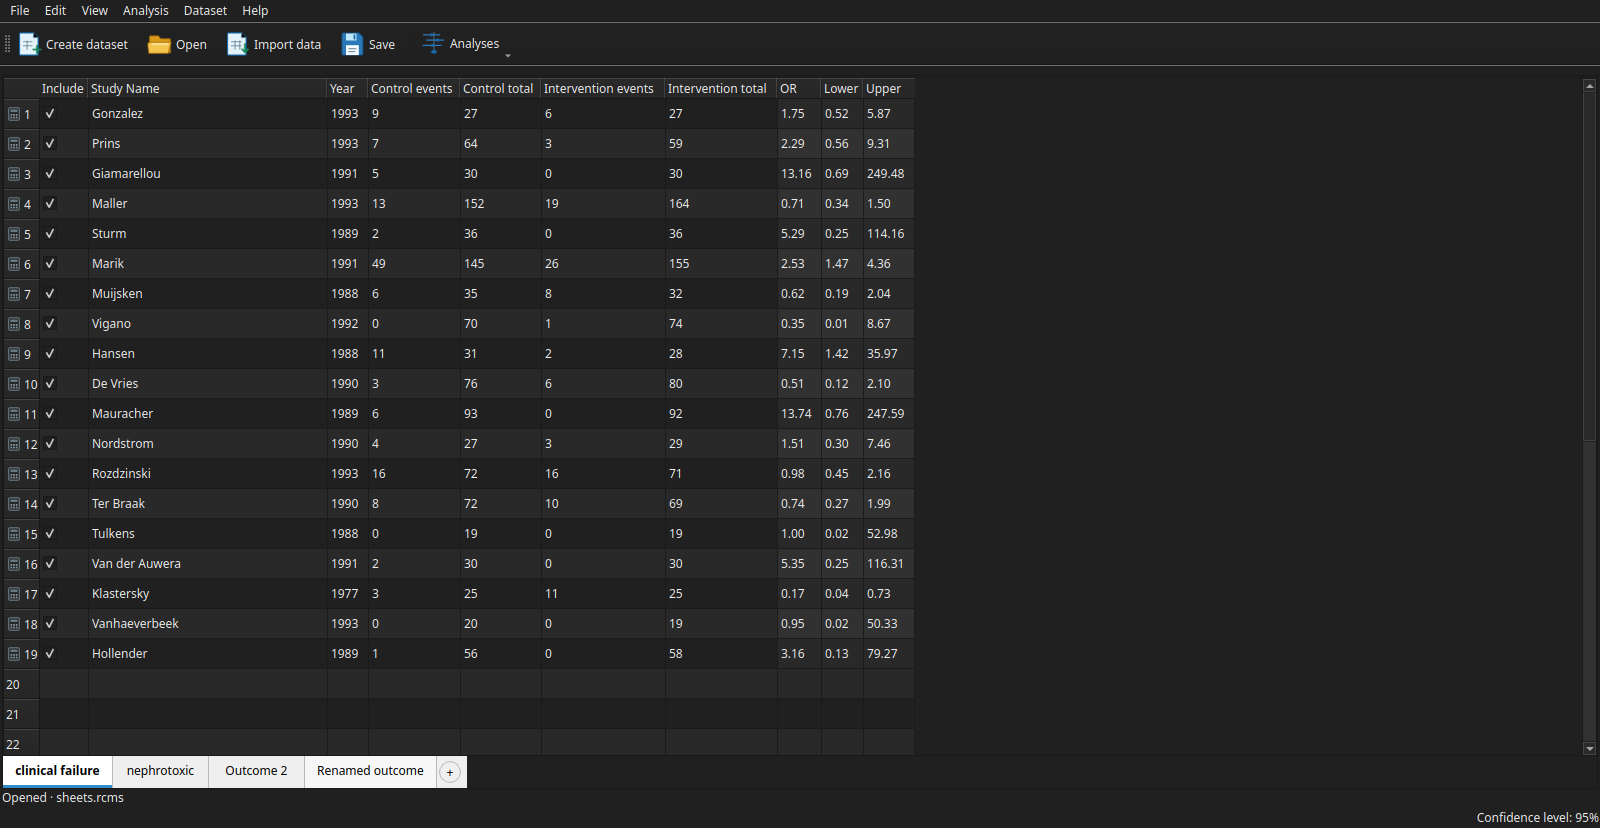
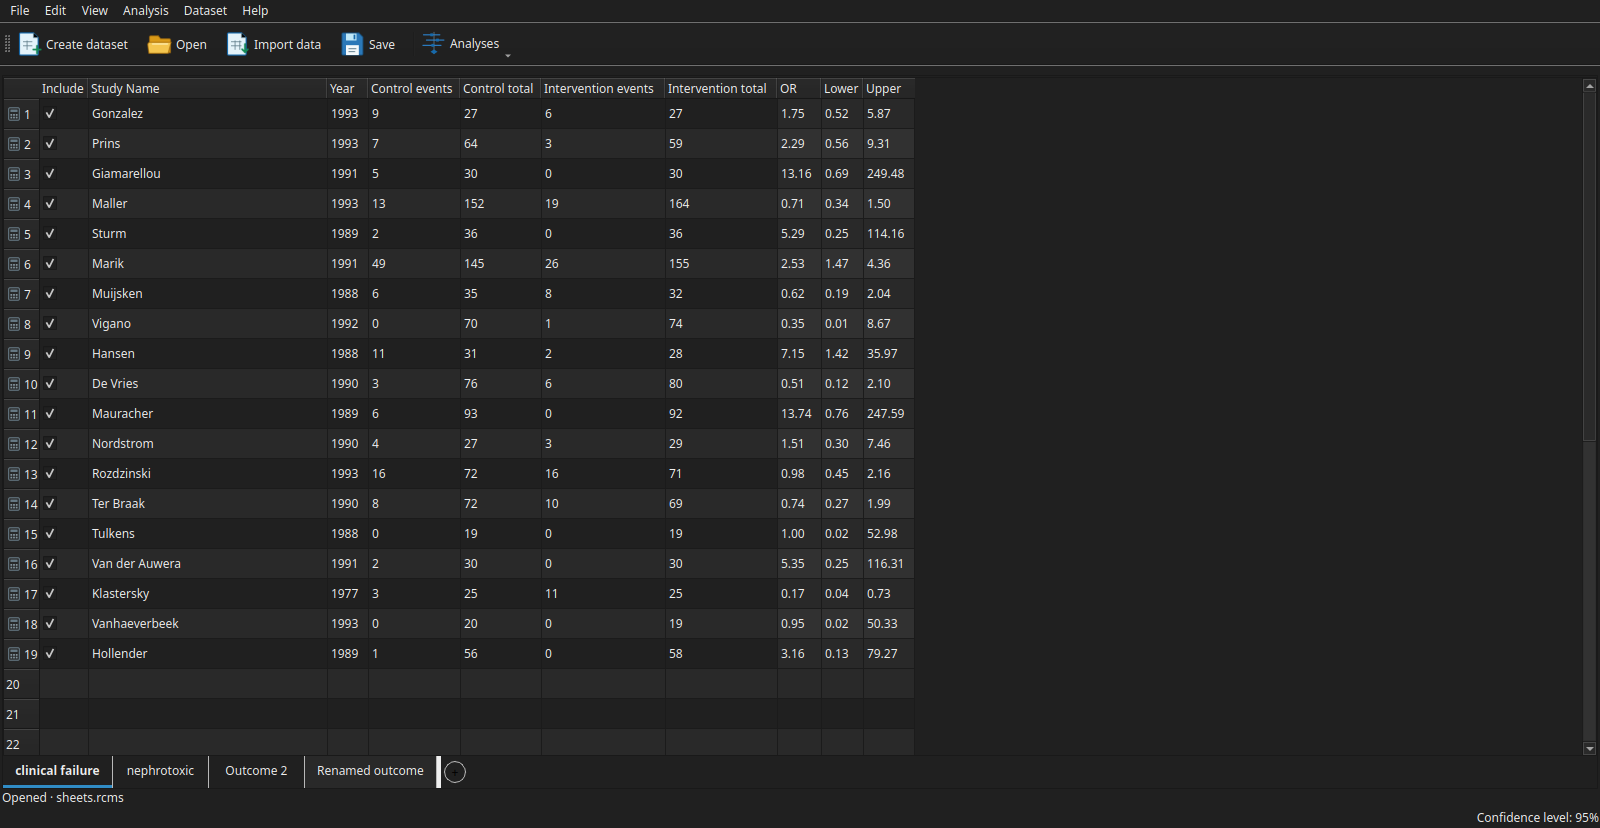
Keep sheet controls visible and synchronize grid scrollbar in tab strip

Changed region(s): [[0.0, 0.9058, 0.3125, 0.9662]]

diff --git a/src/rc_metastudio/main_window.py b/src/rc_metastudio/main_window.py
@@ -8,7 +8,7 @@ from rc_metastudio.project_domain import ArmId, SheetId
 import os
 from functools import cmp_to_key
 from typing import TYPE_CHECKING, cast
-from PyQt6 import QtCore, QtWidgets
+from PyQt6 import QtCore, QtGui, QtWidgets
 from PyQt6.QtCore import Qt
 from PyQt6.QtGui import (
     QMouseEvent,
@@ -214,7 +214,20 @@ class ImportProgressDialog(progress_dialog.AnalysisProgressDialog):
 
 
 class SheetTabBar(QtWidgets.QTabBar):
+    def changeEvent(self, event):
+        super().changeEvent(event)
+        if event.type() in (QtCore.QEvent.Type.ApplicationPaletteChange, QtCore.QEvent.Type.PaletteChange) and not getattr(self, "_updating_palette", False):
+            self._updating_palette = True
+            palette = QtWidgets.QApplication.palette()
+            template = getattr(self, "palette_stylesheet", self.styleSheet())
+            for name, role in (("window", QtGui.QPalette.ColorRole.Window), ("window-text", QtGui.QPalette.ColorRole.WindowText), ("alternate-base", QtGui.QPalette.ColorRole.AlternateBase), ("mid", QtGui.QPalette.ColorRole.Mid), ("highlight", QtGui.QPalette.ColorRole.Highlight)):
+                template = template.replace("palette(" + name + ")", palette.color(role).name())
+            self.setStyleSheet(template)
+            self._updating_palette = False
+
     def eventFilter(self, a0: QtCore.QObject | None, a1: QtCore.QEvent | None) -> bool:
+        if a1 is not None and a1.type() == QtCore.QEvent.Type.ApplicationPaletteChange:
+            self.changeEvent(a1)
         window = self.window()
         event = a1
         if isinstance(window, MainWindow) and isinstance(event, QKeyEvent) and event.key() == Qt.Key.Key_Escape:
@@ -1423,6 +1436,7 @@ class MainWindow(QtWidgets.QMainWindow, _ui_main_window.Ui_MainWindow):
         self._adding_sheet = False
         self.sheet_name_edit = None
         self.sheet_tabs = SheetTabBar(self)
+        QtWidgets.QApplication.instance().installEventFilter(self.sheet_tabs)
         self.sheet_tabs.setObjectName("sheet_tabs")
         self.sheet_tabs.setFocusPolicy(Qt.FocusPolicy.StrongFocus)
         self.setTabOrder(self.analysis_button, self.sheet_tabs)
@@ -1434,14 +1448,15 @@ class MainWindow(QtWidgets.QMainWindow, _ui_main_window.Ui_MainWindow):
         self.sheet_tabs.setAutoHide(False)
         self.sheet_tabs.setDrawBase(False)
         self.sheet_tabs.setContextMenuPolicy(Qt.ContextMenuPolicy.CustomContextMenu)
-        self.sheet_tabs.setStyleSheet("""
-            QTabBar::tab { background: transparent; color: palette(text);
+        self.sheet_tabs.palette_stylesheet = """
+            QTabBar::tab { background: palette(window); color: palette(window-text);
                 border: 0; border-right: 1px solid palette(mid);
                 border-bottom: 3px solid transparent; padding: 6px 12px; }
             QTabBar::tab:hover { background: palette(alternate-base); }
-            QTabBar::tab:selected { background: palette(base); font-weight: bold;
+            QTabBar::tab:selected { background: palette(window); font-weight: bold;
                 border-bottom: 3px solid palette(highlight); }
-        """)
+        """
+        self.sheet_tabs.setStyleSheet(self.sheet_tabs.palette_stylesheet)
         self.add_sheet_button = QtWidgets.QToolButton(self)
         self.add_sheet_button.setText("+")
         self.add_sheet_button.setToolTip("Add sheet")
@@ -1453,7 +1468,6 @@ class MainWindow(QtWidgets.QMainWindow, _ui_main_window.Ui_MainWindow):
         row.setContentsMargins(0, 0, 4, 0)
         row.setSpacing(0)
         row.addWidget(self.sheet_tabs)
-        row.addWidget(self.add_sheet_button)
         self.sheet_tab_scroll = QtWidgets.QScrollArea(self)
         self.sheet_tab_scroll.setFrameShape(QtWidgets.QFrame.Shape.NoFrame)
         self.sheet_tab_scroll.setHorizontalScrollBarPolicy(Qt.ScrollBarPolicy.ScrollBarAlwaysOff)
@@ -1473,7 +1487,22 @@ class MainWindow(QtWidgets.QMainWindow, _ui_main_window.Ui_MainWindow):
             button.clicked.connect(lambda checked=False, delta=delta: self.sheet_tab_scrollbar.setValue(self.sheet_tab_scrollbar.value() + delta))
             button.hide()
             strip.addWidget(button)
-        strip.addWidget(self.sheet_tab_scroll, 1)
+        strip.addWidget(self.sheet_tab_scroll, 3)
+        strip.addWidget(self.add_sheet_button)
+        strip.addStretch(0)
+        self.sheet_grid_scrollbar = QtWidgets.QScrollBar(Qt.Orientation.Horizontal, self.sheet_strip)
+        strip.addWidget(self.sheet_grid_scrollbar, 2)
+        self.tableView.setHorizontalScrollBarPolicy(Qt.ScrollBarPolicy.ScrollBarAlwaysOff)
+        grid = required(self.tableView.horizontalScrollBar(), "grid scrollbar")
+        self.sheet_grid_scrollbar.valueChanged.connect(grid.setValue)
+        grid.valueChanged.connect(self.sheet_grid_scrollbar.setValue)
+        def sync_grid_scrollbar(*_args):
+            self.sheet_grid_scrollbar.setRange(grid.minimum(), grid.maximum())
+            self.sheet_grid_scrollbar.setPageStep(grid.pageStep())
+            self.sheet_grid_scrollbar.setSingleStep(grid.singleStep())
+            self.sheet_grid_scrollbar.setVisible(grid.maximum() > grid.minimum())
+        grid.rangeChanged.connect(sync_grid_scrollbar)
+        sync_grid_scrollbar()
         self.sheet_strip.setSizePolicy(QtWidgets.QSizePolicy.Policy.Expanding, QtWidgets.QSizePolicy.Policy.Fixed)
         self.verticalLayout.addWidget(self.sheet_strip)
         scroll = self.sheet_tab_scrollbar
@@ -1490,6 +1519,7 @@ class MainWindow(QtWidgets.QMainWindow, _ui_main_window.Ui_MainWindow):
         self._sheet_strip_timer.start(0)
 
     def _update_sheet_strip(self):
+        self.sheet_tab_scroll.setMaximumWidth(self.sheet_tab_content.sizeHint().width() + 2)
         overflow = self.sheet_tab_scrollbar.maximum() > 0
         self.sheet_scroll_left.setVisible(overflow)
         self.sheet_scroll_right.setVisible(overflow)

diff --git a/tests/e2e/desktop_driver.py b/tests/e2e/desktop_driver.py
@@ -836,6 +836,9 @@ def verify_sheet_strip(app, window, screens):
         app.setPalette(palette)
         app.processEvents()
         assert window.grab().save(str(screens / ("slice10-tabs-" + theme + ".png")))
+        if theme == "dark":
+            colour = tabs.grab().toImage().pixelColor(tabs.tabRect(tabs.currentIndex()).topLeft() + QtCore.QPoint(8, 8))
+            assert abs(colour.lightness() - palette.color(QtGui.QPalette.ColorRole.Window).lightness()) < 40, (colour.name(), tabs.palette().color(QtGui.QPalette.ColorRole.Window).name())
         record_step("sheet-strip-" + theme, window)
     app.setPalette(original_palette)
     for index in range(20):
@@ -895,6 +898,22 @@ def verify_sheet_strip(app, window, screens):
     assert [sheet.id for sheet in window.model.dataset.sheets] == before
     app.processEvents()
     assert window.grab().save(str(screens / "slice10-tabs-overflow.png"))
+    assert window.add_sheet_button.visibleRegion().boundingRect().size() == window.add_sheet_button.size()
+    plus_rect = window.add_sheet_button.rect()
+    plus_rect.moveTopLeft(window.add_sheet_button.mapTo(window.sheet_strip, QtCore.QPoint()))
+    assert window.sheet_strip.rect().contains(plus_rect)
+    grid_scroll = window.sheet_grid_scrollbar
+    native_scroll = window.tableView.horizontalScrollBar()
+    window.tableView.setColumnWidth(0, window.width() * 2)
+    app.processEvents()
+    app.processEvents()
+    assert grid_scroll.isVisible() and grid_scroll.maximum() == native_scroll.maximum()
+    grid_scroll.setValue(grid_scroll.maximum())
+    assert native_scroll.value() == grid_scroll.value()
+    native_scroll.setValue(0)
+    assert grid_scroll.value() == 0
+    window.tableView.setColumnWidth(0, 100)
+    app.processEvents()
     record_step("sheet-strip-overflow", window, count=tabs.count())
 
 
